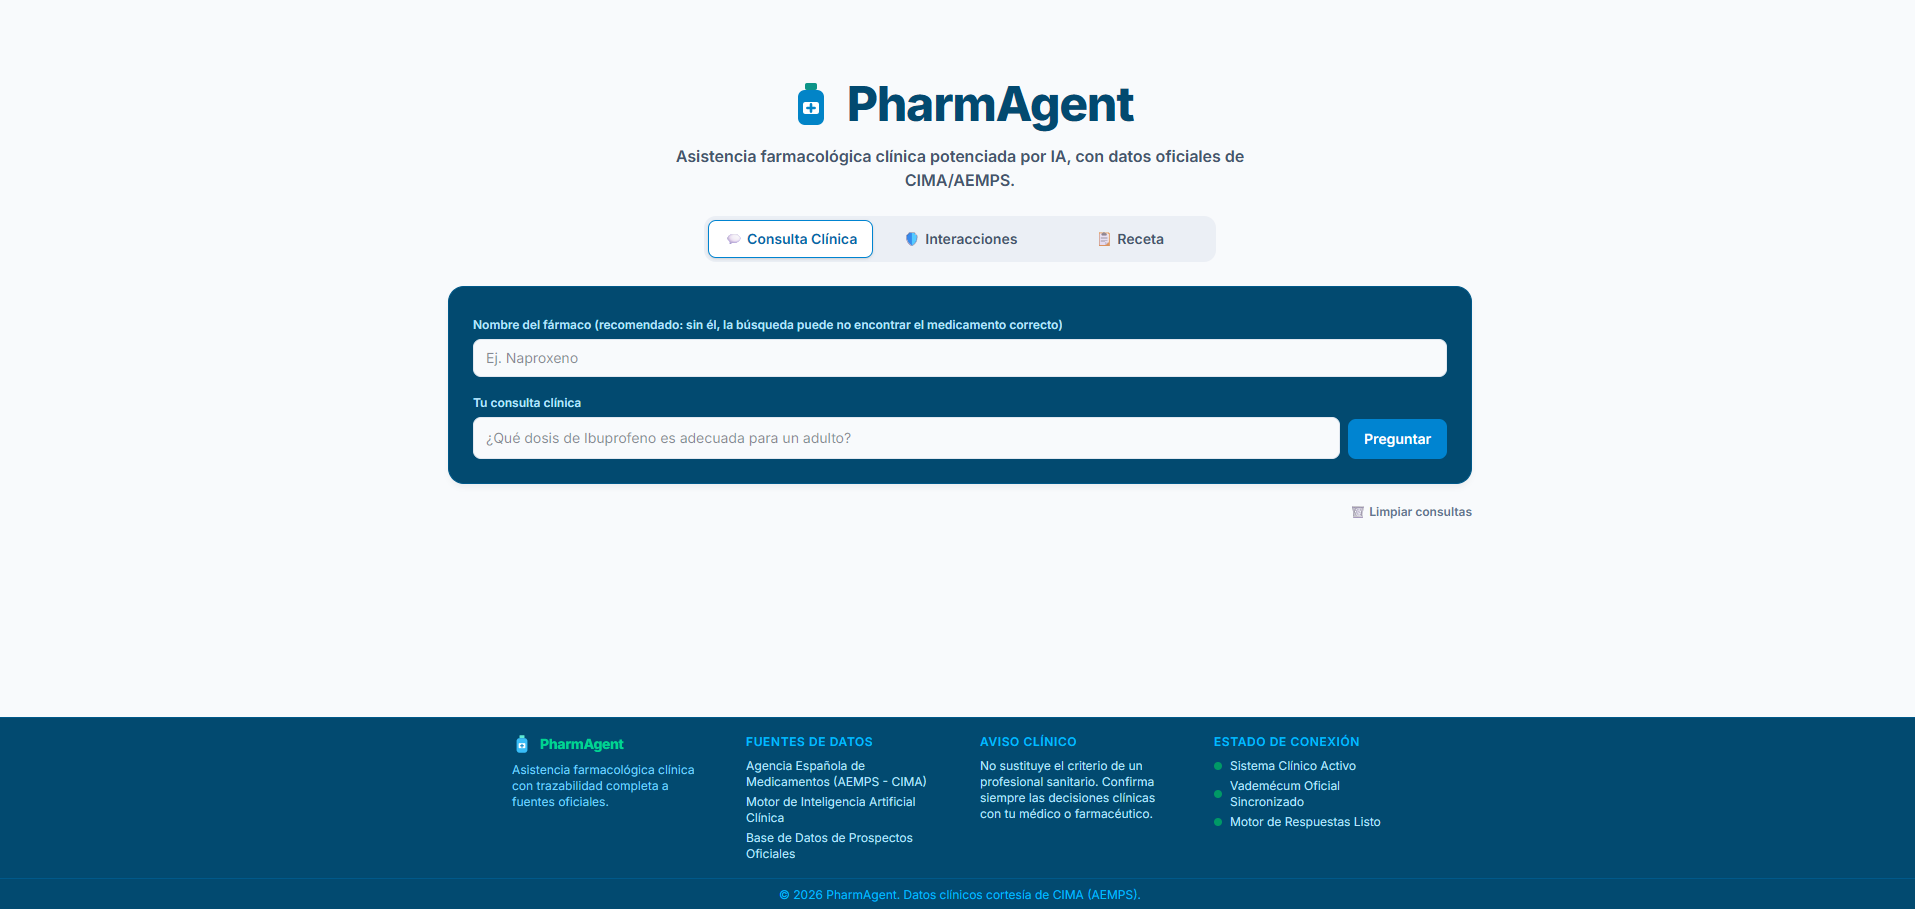
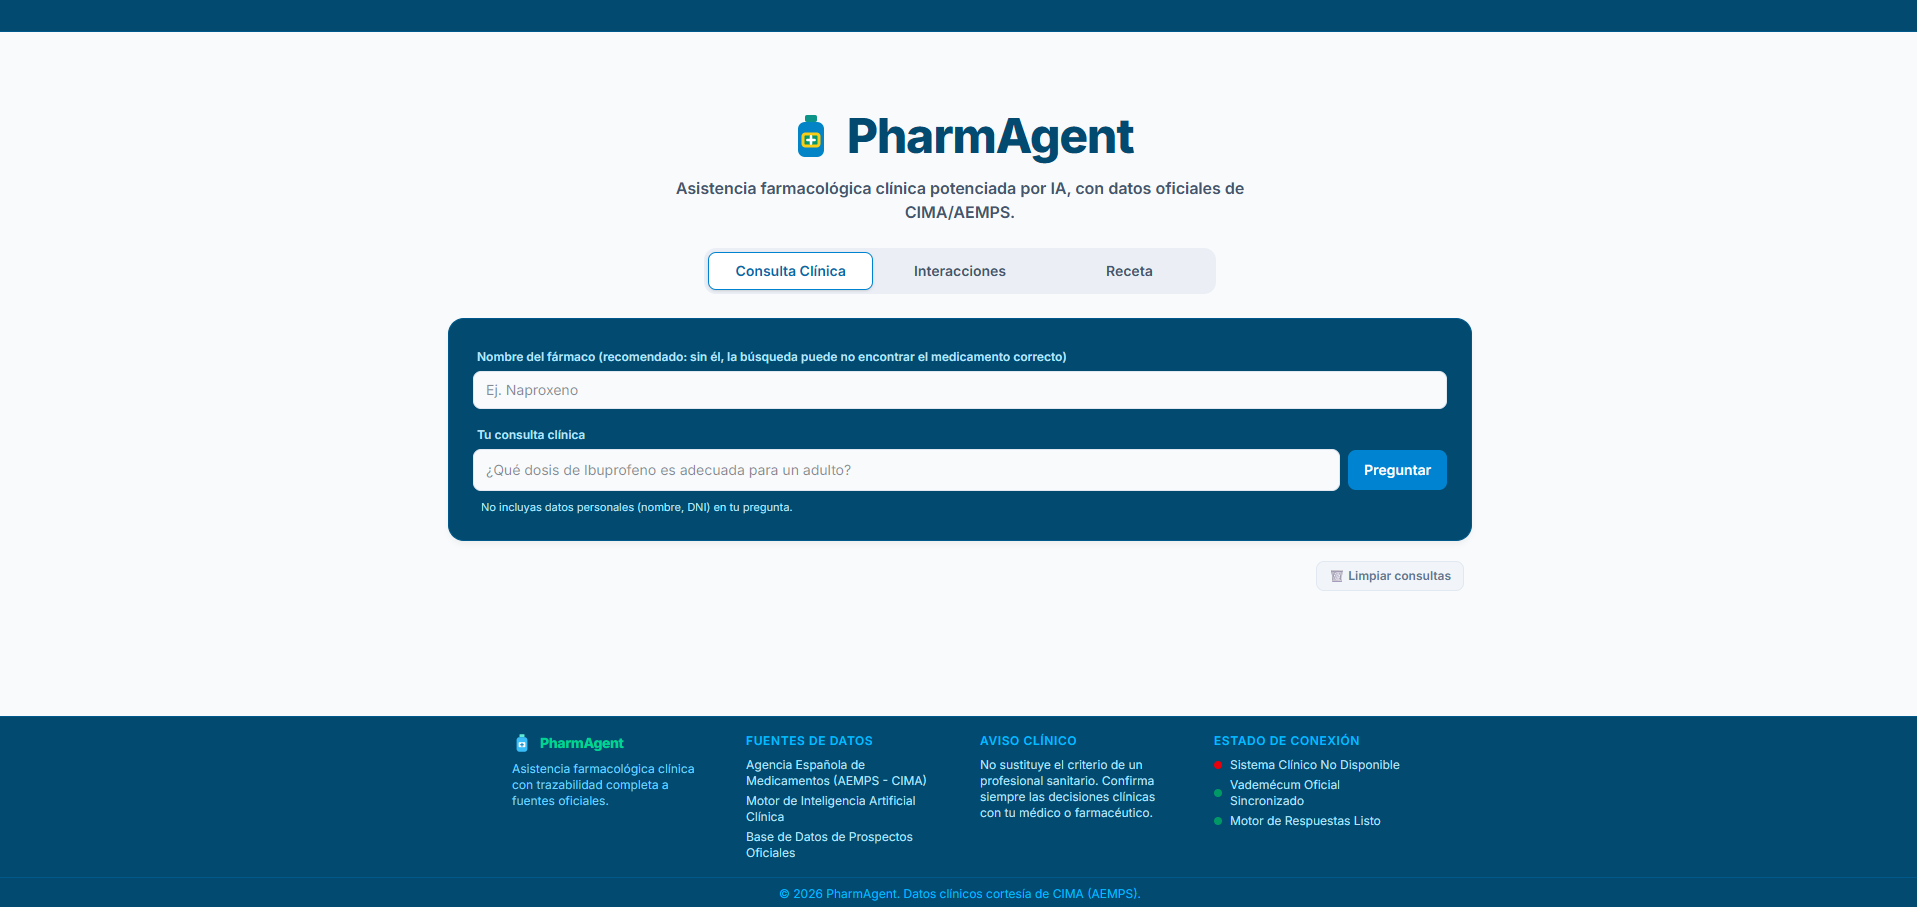
docs: actualizar capturas del README y simplificar el aviso de razonamiento LLM
- Capturas de pantalla (consulta-clinica.png, interacciones.png, receta.png)
  actualizadas al diseño actual (cabecera nueva, pestaña Receta con arrastrar-y-soltar).
- README: anotada como mejora futura la posibilidad de dar contexto real (sección 4.5 de
  la ficha técnica) al razonamiento LLM de SafetyCheckAgent, en vez de dejarlo sin fuente
  documental — no implementada, solo documentada.
- Aviso de "razonamiento de un modelo de lenguaje" en Interacciones/Receta acortado,
  quitando la explicación de por qué CIMA no puede verificarlo (se queda solo con la
  advertencia práctica: puede variar en fraseo y debe confirmarse con un profesional).

Changed region(s): [[0.2157, 0.0926, 0.7702, 0.6483], [0.0, 0.0, 1.0, 0.0617], [0.2465, 0.8026, 0.7394, 1.0]]

diff --git a/frontend/src/ui.ts b/frontend/src/ui.ts
@@ -83,11 +83,9 @@ export function llmOnlyDisclaimerHtml(): string {
     <div class="flex items-start gap-2 rounded-xl border border-warning-200 bg-warning-50 p-3 text-sm text-warning-800">
       <span>⚠</span>
       <p>
-        Ninguno de estos fármacos está en la base curada interna. Este resultado es
-        <strong>razonamiento de un modelo de lenguaje</strong>, no un dato verificado contra
-        CIMA/AEMPS (que no publica un registro de interacciones) ni contra ninguna base de
-        datos clínica oficial — puede variar en fraseo entre consultas y debe confirmarse
-        siempre con un profesional sanitario.
+        Este resultado es <strong>razonamiento de un modelo de lenguaje</strong>, puede
+        variar en fraseo entre consultas y debe confirmarse siempre con un profesional
+        sanitario.
       </p>
     </div>`;
 }

diff --git a/README.md b/README.md
@@ -655,3 +655,15 @@ todavía una entidad de dominio `Drug` desacoplada del modelo ORM; y la extracci
 `PrescriptionAgent` se persiste como registro auditable en JSON crudo, no normalizada a la
 entidad de dominio estricta `Prescription`/`PrescribedDrug` (ver la nota de diseño en
 [prescription_record_model.py](src/infrastructure/models/prescription_record_model.py)).
+
+**Mejora futura identificada, no implementada**: el razonamiento del LLM en
+`SafetyCheckAgent` para combinaciones no cubiertas por la base curada (`source: "llm"`) es
+conocimiento paramétrico del modelo, no *grounded* en ningún documento — a diferencia de
+`RAGPharmAgent`, que sí recupera texto real de CIMA antes de responder. No es un descuido:
+CIMA/AEMPS no publica ningún endpoint de interacciones farmacológicas, así que no hay un
+documento equivalente que recuperar para ese dato concreto. Sin embargo, la ficha técnica
+oficial de cada fármaco sí incluye una sección de interacciones (punto 4.5, "Interacción con
+otras formas de interacción") — un trabajo futuro razonable sería pasarle esas secciones al
+LLM como contexto (mismo patrón RAG que ya usa `RAGPharmAgent`) en vez de dejarlo razonar sin
+ningún texto de referencia, acercando la fiabilidad del camino LLM a la del resto del
+sistema.
